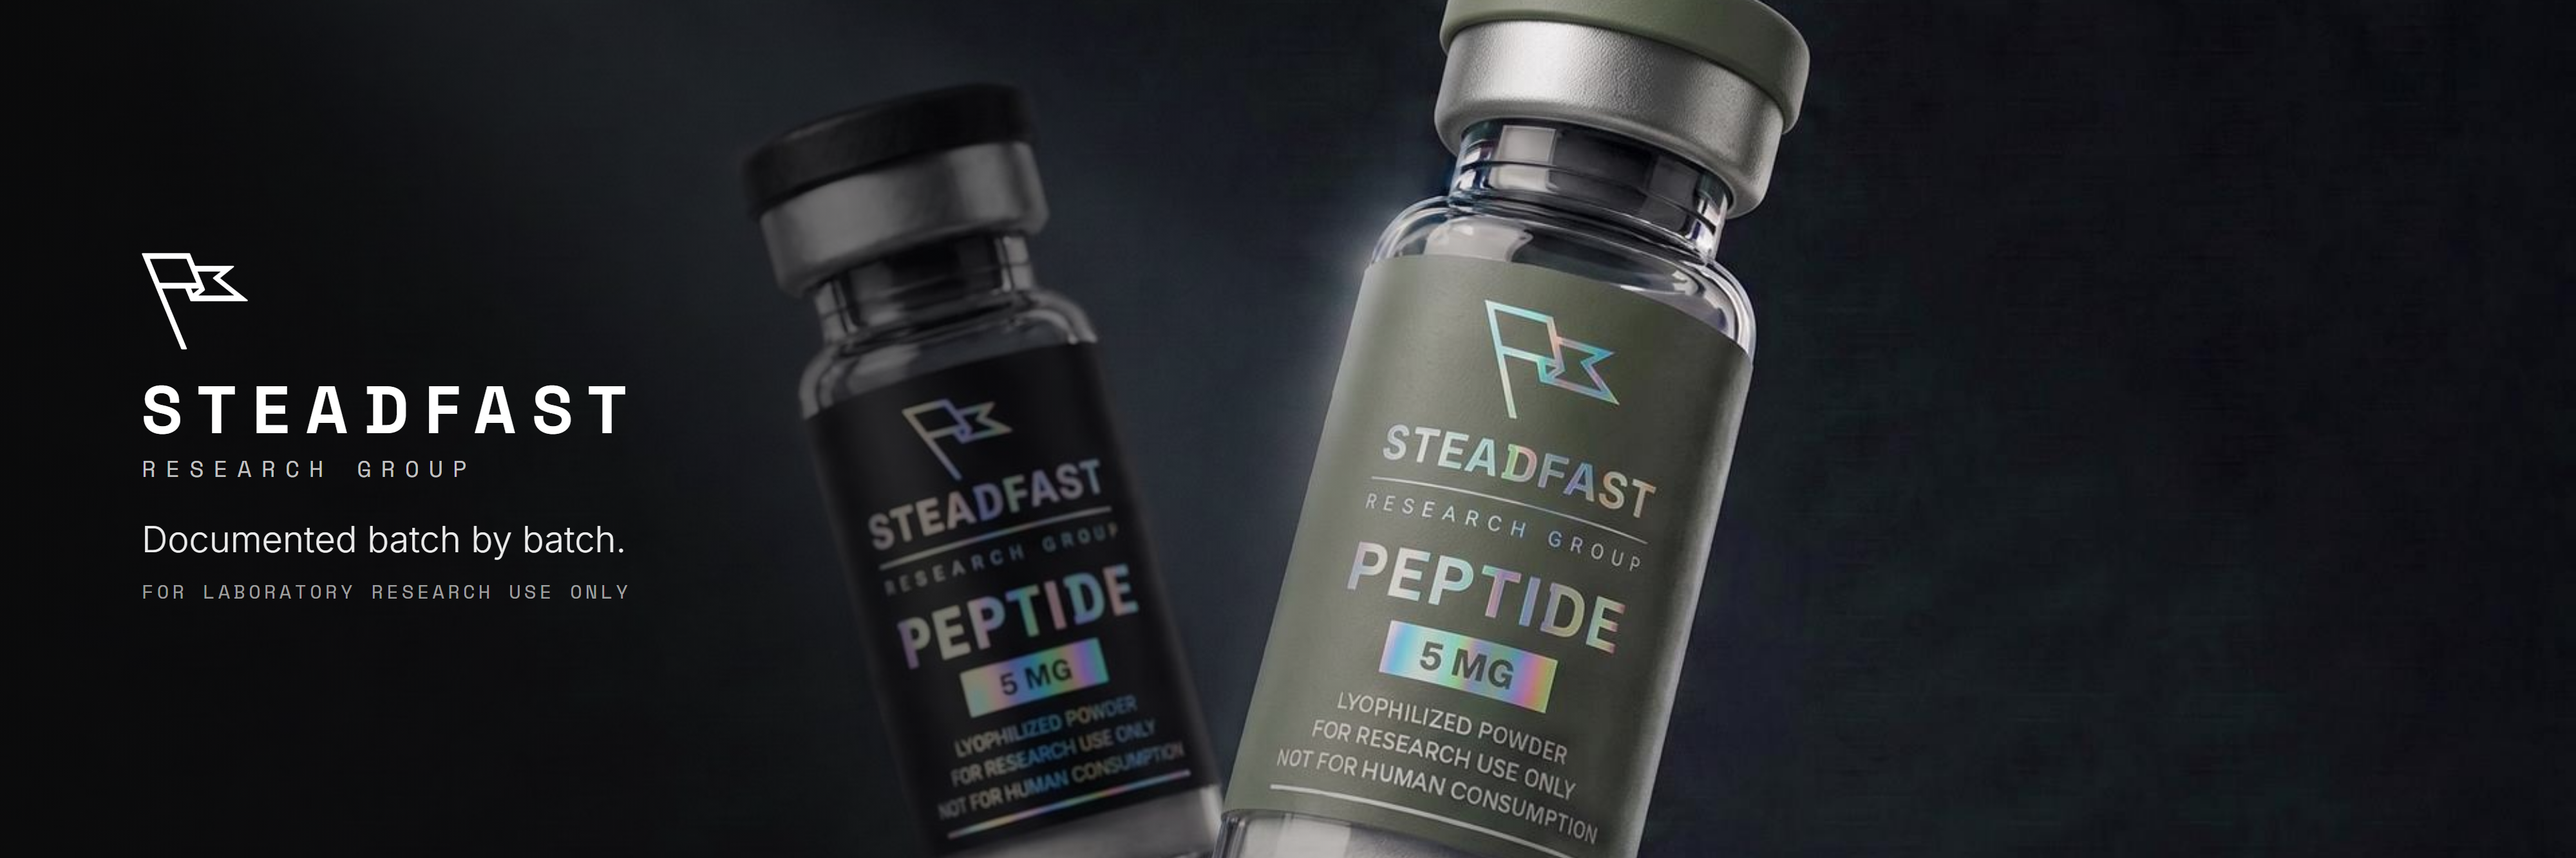
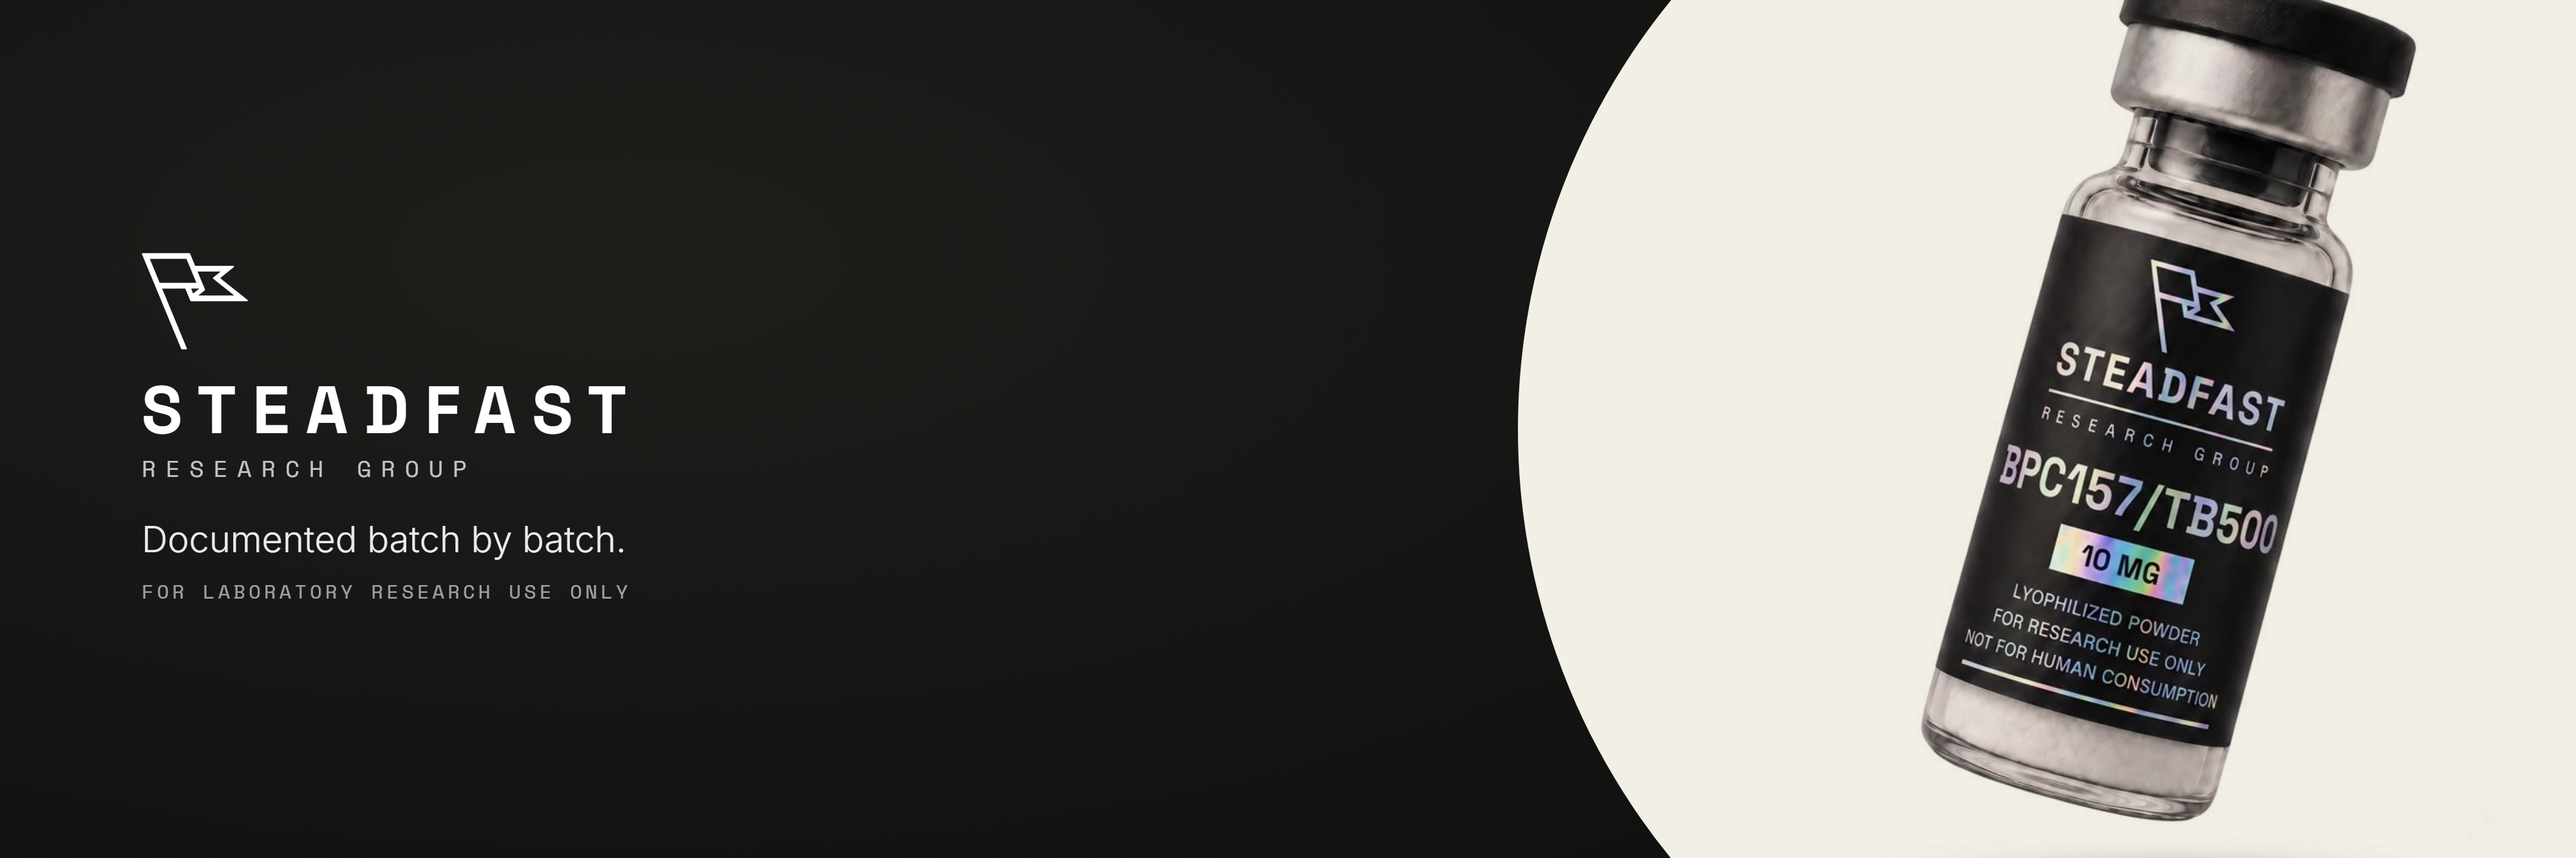
Headers v2: cutout product on brand grounds, approved assets only
Gabi's corrections on the photo pass: (1) only the Drive mockups are
Blake-approved imagery - the scene photography I pulled from the website repo
was not cleared, and the white banner's collage (range-grid) in particular is
not an approved photo; (2) the direction she wants is the product CUT OUT,
floating as a design detail, not a photo scene.

All twelve headers regenerated that way: flat brand grounds (carbon radial /
sage sweep / bone sweep), lockup left (YouTube: centred in the safe area), and
one approved product mockup as a floating cutout accent bleeding off the
right edge - BPC blend on carbon inside a bone disc (multiply cannot knock
white out against a dark ground), Tirzepatide on sage, Tesamorelin on bone.
The three scene JPGs are removed from social-src so they cannot be reused by
accident; sources are now exclusively the srg-prod set from Blake's Drive
folder.

diff --git a/assets/social-src/headers.html b/assets/social-src/headers.html
@@ -34,21 +34,19 @@
 const FLAG_WHITE = '/assets/logos-grotesk/srg-grotesk-white-icon.png';
 const FLAG_BLACK = '/assets/logos-grotesk/srg-grotesk-black-icon.png';
 
-/* colorway recipes — text + scrim tuned per photo */
-/* safeShift: framing for the YouTube banner, whose text MUST sit in the
-   centred safe area — the photo's vial has to move out of the middle there,
-   or the lockup lands on top of the product. object-position can't do it
-   (these photos fill by width, so X has no slack); a translate+scale can. */
+/* v2 "cutout" (Gabi, 2026-08-07): flat brand grounds and the PRODUCT as a
+   floating cutout accent — no scene photography. Sources are exclusively the
+   Blake-approved Drive mockups (the srg-prod set). The mockups are white-bg
+   JPGs: multiply makes the white vanish on the sage and bone grounds; on
+   carbon the vial sits inside a bone disc bleeding off the edge, because
+   multiply keeps only pixels darker than the ground. */
 const WAYS = {
-  black: { photo:'/assets/social-src/range-duo.jpg',  pos:'62% 40%', fg:'#FFFFFF', flag:FLAG_WHITE,
-           safeShift:'transform:translateX(-27%) scale(1.6);transform-origin:center',
-           scrim:'linear-gradient(90deg, rgba(10,10,10,.86) 0%, rgba(10,10,10,.55) 34%, rgba(10,10,10,0) 62%)' },
-  sage:  { photo:'/assets/social-src/lab-olive.jpg',  pos:'68% 30%', fg:'#FFFFFF', flag:FLAG_WHITE,
-           safeShift:'transform:translateX(29%) scale(1.64);transform-origin:center',
-           scrim:'linear-gradient(90deg, rgba(35,42,28,.88) 0%, rgba(35,42,28,.58) 36%, rgba(35,42,28,0) 64%)' },
-  white: { photo:'/assets/social-src/range-grid.jpg', pos:'50% 32%', fg:'#14150F', flag:FLAG_BLACK,
-           safeShift:'',
-           scrim:'linear-gradient(90deg, rgba(245,243,236,.94) 0%, rgba(245,243,236,.72) 34%, rgba(245,243,236,.06) 62%)' }
+  black: { bg:'radial-gradient(120% 160% at 24% 30%, #1D1F1B 0%, #0D0D0D 68%)',
+           fg:'#FFFFFF', flag:FLAG_WHITE, vial:'/assets/social-src/srg-prod-bb10.jpg', disc:'#F2EFE6' },
+  sage:  { bg:'linear-gradient(115deg, #8F9A7D 0%, #869274 52%, #75816A 100%)',
+           fg:'#FFFFFF', flag:FLAG_WHITE, vial:'/assets/social-src/srg-prod-tr10.jpg', disc:null },
+  white: { bg:'linear-gradient(115deg, #F8F6EF 0%, #F2EFE6 55%, #E6E1D2 100%)',
+           fg:'#14150F', flag:FLAG_BLACK, vial:'/assets/social-src/srg-prod-tsm5.jpg', disc:null }
 };
 
 /* platform canvases — EXACT dimensions of the files being replaced */
@@ -72,11 +70,21 @@ function header(p, wname) {
        width:${safeW}px;height:${safeH}px;margin:auto;`
     : `padding-left:${p.pad}px;max-width:${Math.round(p.w * 0.52)}px;`;
 
-  c.innerHTML = `
-    <img class="ph" src="${w.photo}" style="object-position:${w.pos};${p.safe ? w.safeShift : ''}" />
-    <div class="scrim" style="background:${p.safe
-      ? 'radial-gradient(64% 48% at 50% 50%, ' + (wname==='white' ? 'rgba(245,243,236,.96)' : 'rgba(12,12,12,.88)') + ' 0%, ' + (wname==='white' ? 'rgba(245,243,236,.68)' : 'rgba(12,12,12,.55)') + ' 62%, rgba(0,0,0,0) 100%)'
-      : w.scrim}"></div>
+  c.style.background = w.bg;
+
+  /* the product: a cutout accent on the right, tilted by the render itself,
+     bleeding off the edge so it reads as a design detail, not a catalog shot */
+  const vh = Math.round(p.h * (p.safe ? 0.98 : 1.34));
+  const vialRight = p.safe ? '4%' : '5%';
+  const vialTop = Math.round(p.h * (p.safe ? 0.16 : -0.14));
+  const discSize = Math.round(vh * 1.18);
+  const art = (w.disc
+    ? `<div style="position:absolute;right:-${Math.round(discSize * 0.22)}px;top:50%;transform:translateY(-50%);
+         width:${discSize}px;height:${discSize}px;border-radius:50%;background:${w.disc};overflow:hidden;">
+         <img src="${w.vial}" style="position:absolute;left:50%;top:50%;transform:translate(-50%,-50%);height:${Math.round(vh * 0.92)}px;mix-blend-mode:multiply;" /></div>`
+    : `<img src="${w.vial}" style="position:absolute;right:${vialRight};top:${vialTop}px;height:${vh}px;mix-blend-mode:multiply;" />`);
+
+  c.innerHTML = art + `
     <div class="lk" style="color:${w.fg};${inner}">
       <div class="flag" style="height:${p.flagH}px;width:100%;background-image:url(${w.flag});${p.safe ? 'background-position:center;' : ''}"></div>
       <b style="font-size:${p.brand}px;margin-top:${Math.round(p.flagH * 0.28)}px">STEADFAST</b>
